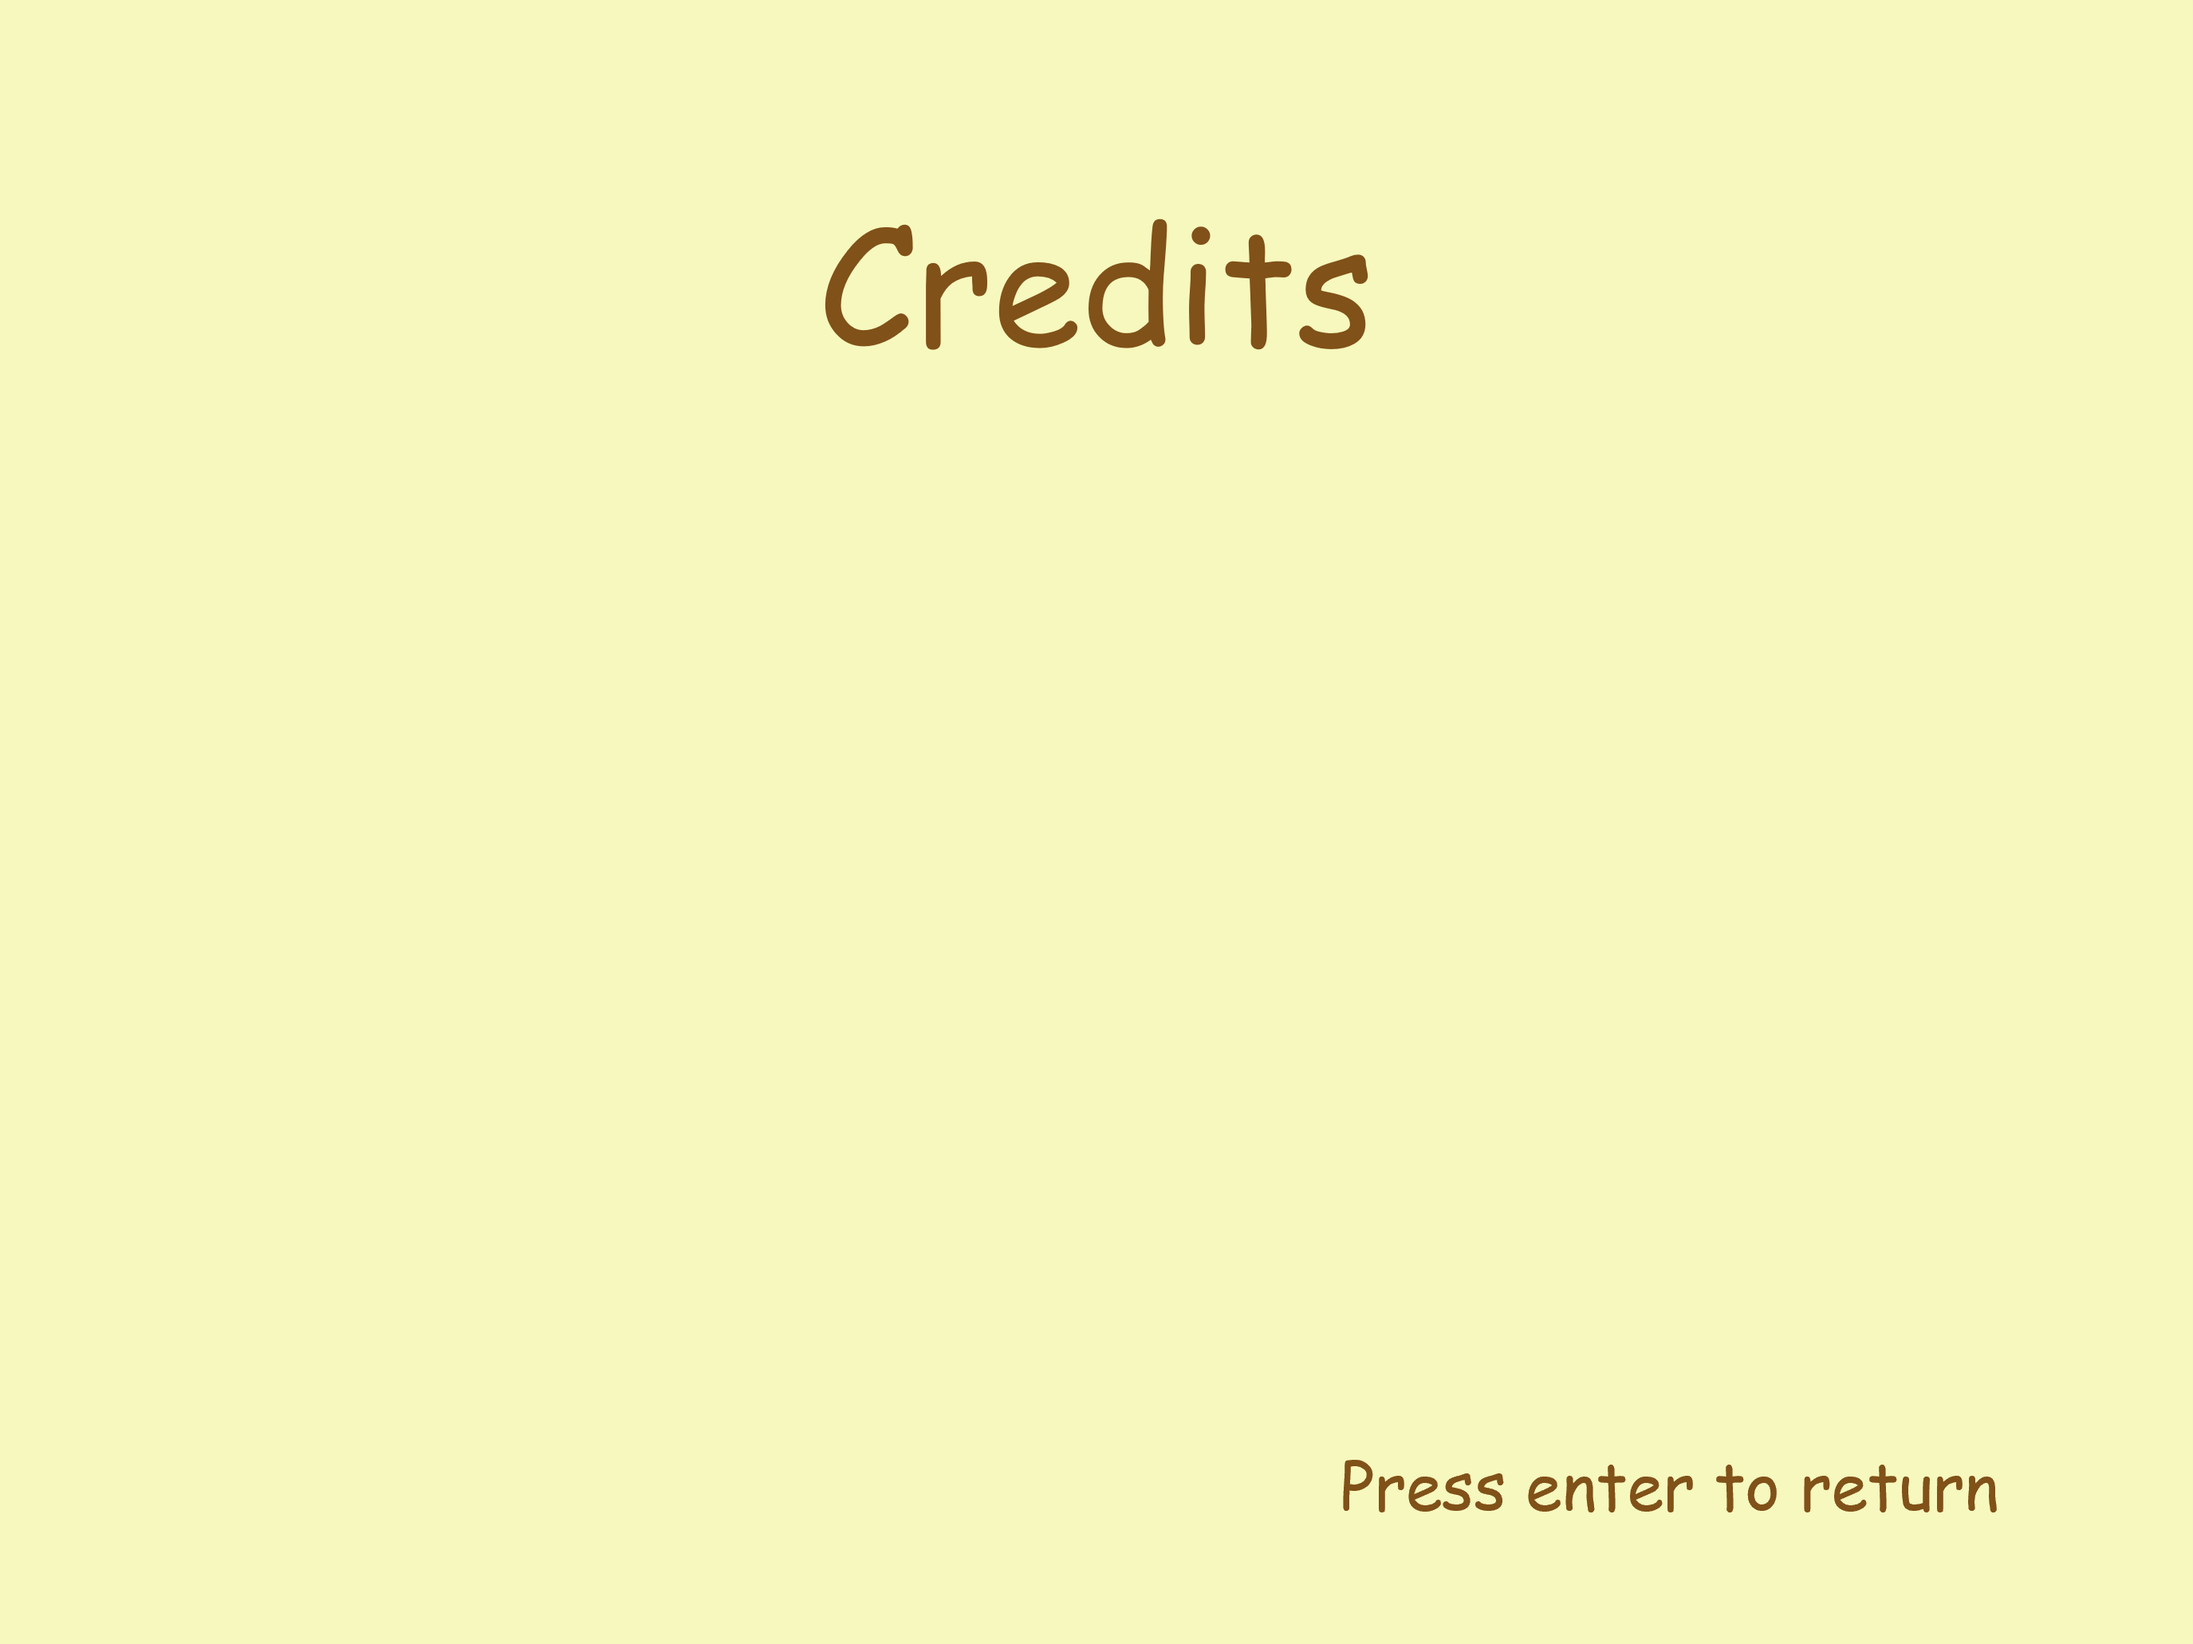
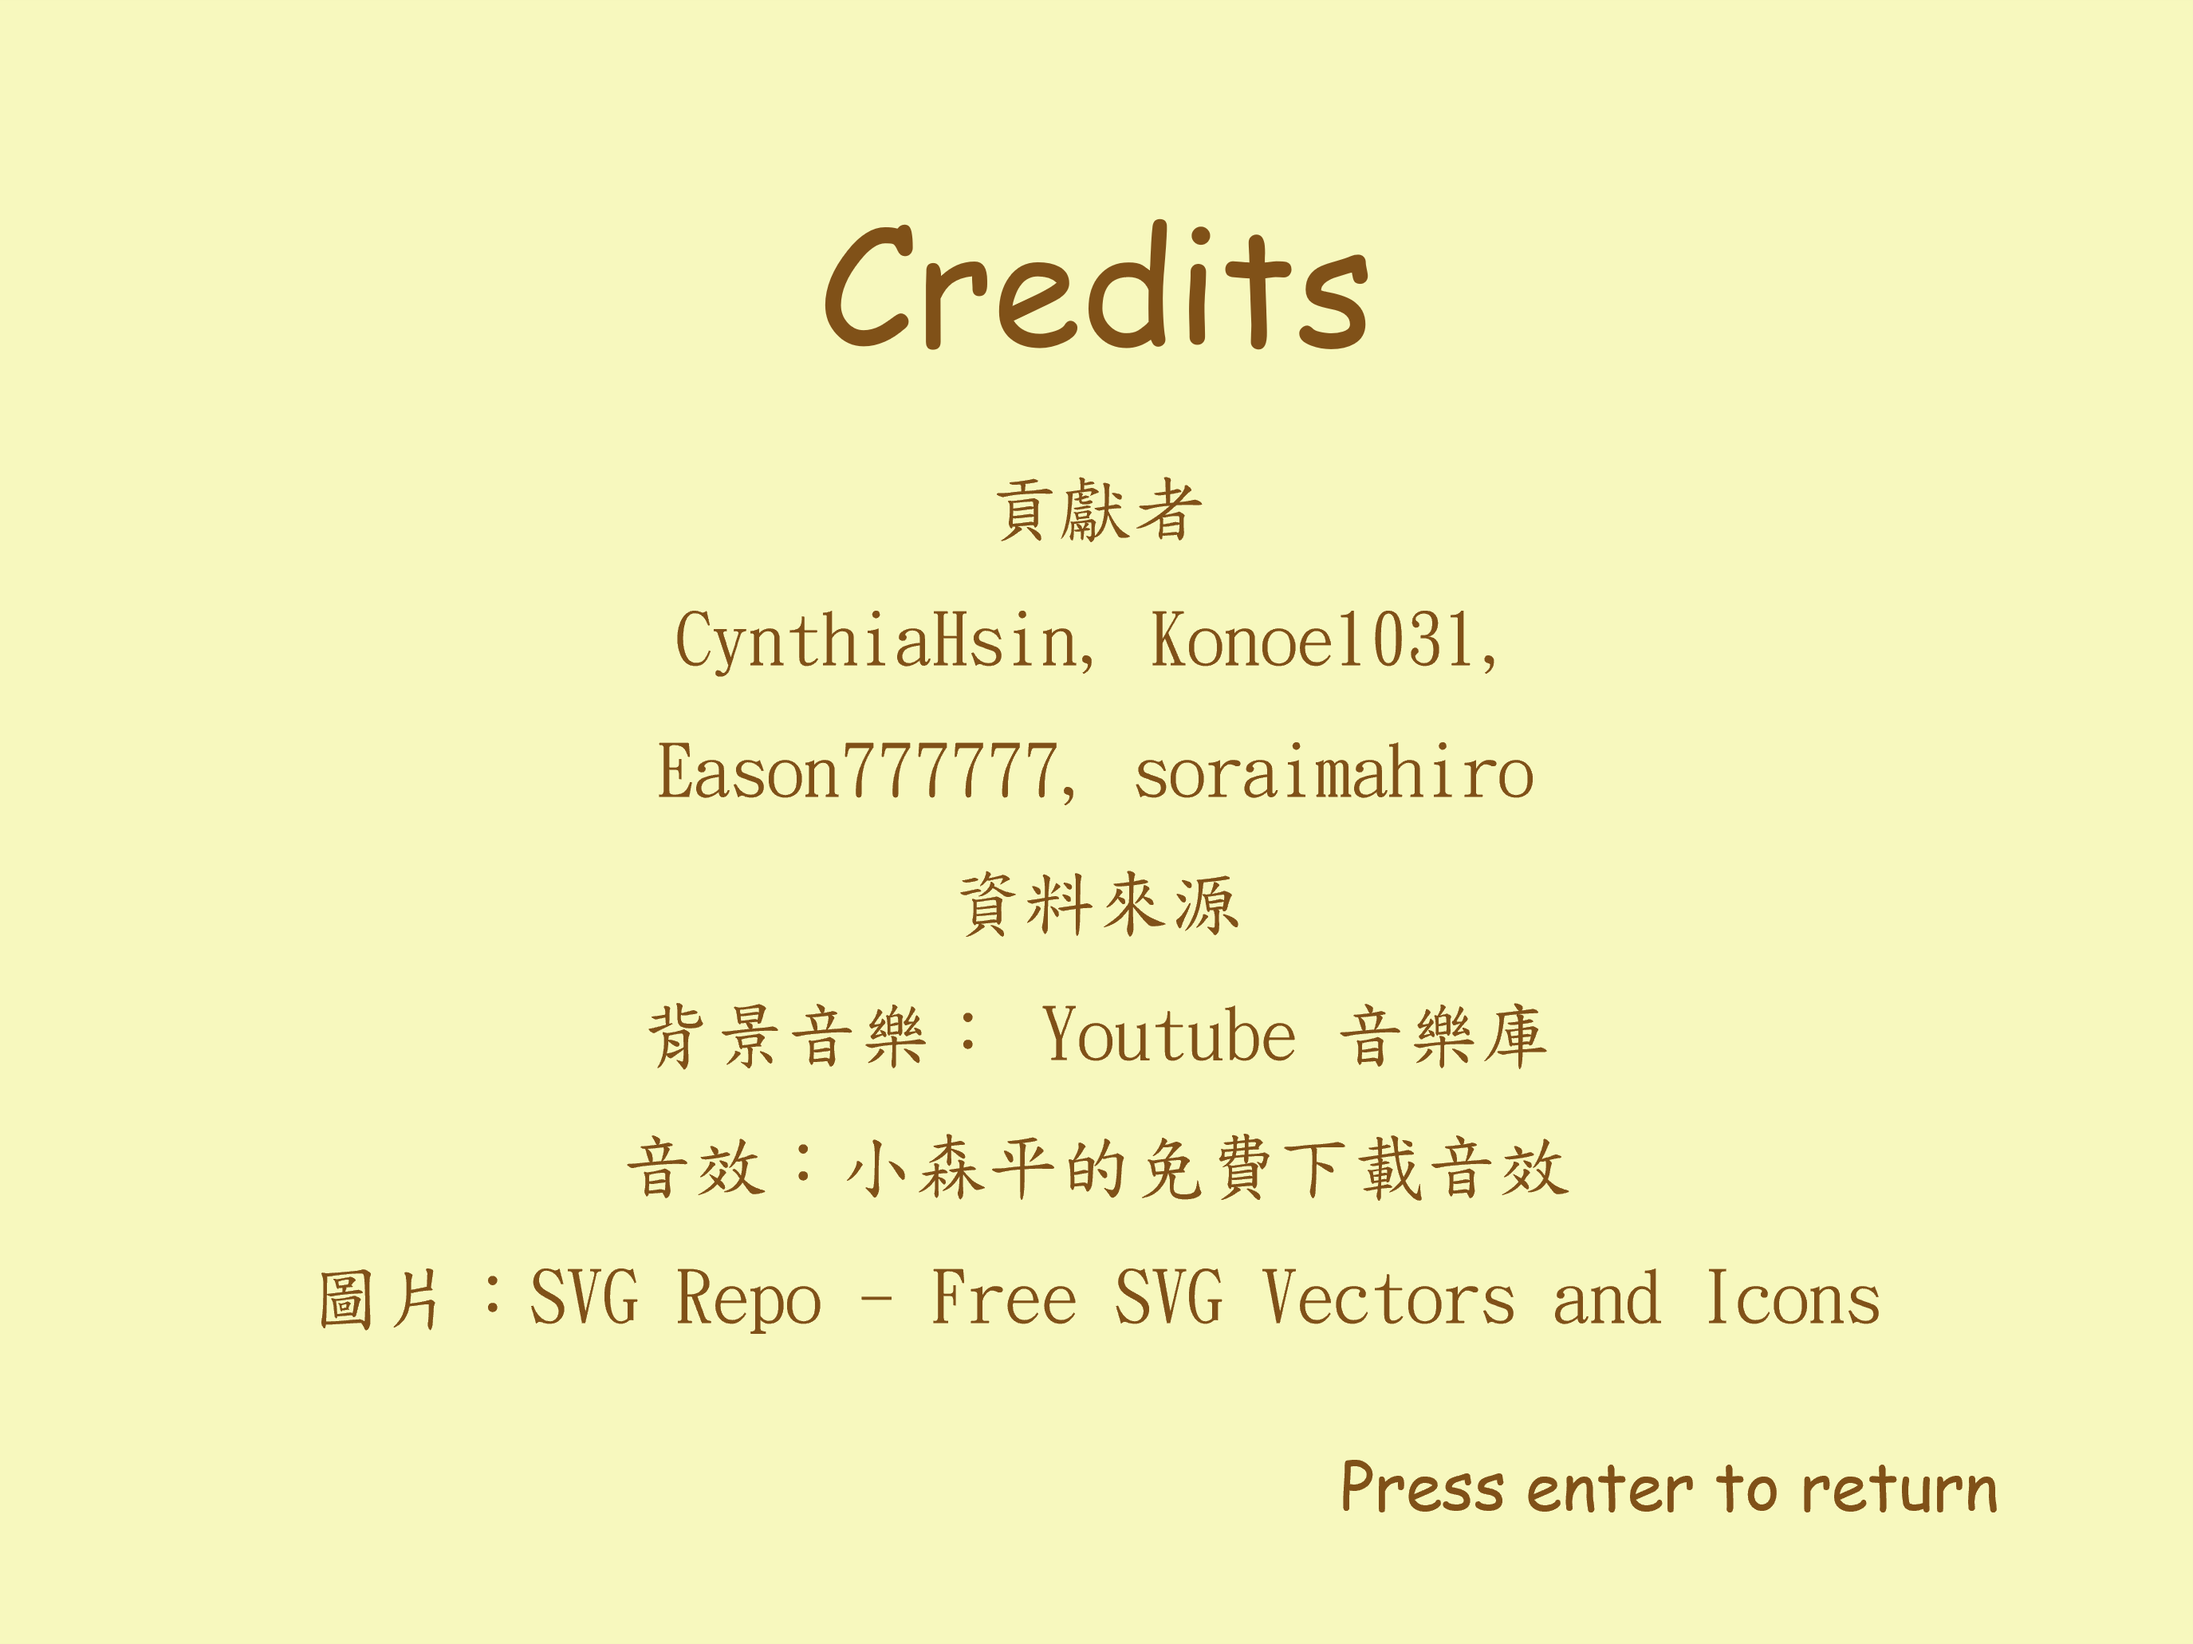
add page: credits

diff --git a/canvas.py b/canvas.py
@@ -41,10 +41,8 @@ def draw_bar(stage: Stage, screen: pygame.Surface):
 		screen.blit(text, (screen.get_width() - gold.get_width() - text.get_width(), screen.get_height() - gold.get_height() / 2 - text.get_height() / 3))
 
 def draw_title(stage: Stage, screen: pygame.Surface):
-	screen.fill((255, 255, 255))
-	font = globals.font(size = 32)
-	text = font.render("Our Game", 0, (0, 0, 255), None)
-	screen.blit(text, (screen.get_width() * 0.15, screen.get_height() * 0.25))
+	page = globals.icon("./resource/image/image_page_start.png", globals.screen_size)
+	screen.blit(page, globals.screen_pos)
 	font = globals.font(size = 24)
 	text = font.render("Start", 0, (0, 0, 0) if stage.player.pos.y != TitleOption.START.value else (255, 127, 0), None)
 	screen.blit(text, (screen.get_width() * 0.15, screen.get_height() * 0.5))
@@ -72,12 +70,8 @@ def draw_setting(stage: Stage,screen: pygame.Surface):
 	screen.blit(text, (screen.get_width() * 0.7, screen.get_height() * 0.5))
 
 def draw_credit(screen: pygame.Surface):
-	screen.fill((180, 180, 0))
-	font = globals.font(size = 12)
-	text = font.render("Credit", 0, (0, 0, 0), None)
-	screen.blit(text, (screen.get_width() * 0.15, screen.get_height() * 0.15))
-	text = font.render("Press Enter to return", 0, (0, 0, 0), None)
-	screen.blit(text, (screen.get_width() * 0.95 - text.get_width(), screen.get_height() * 0.9))
+	page = globals.icon("./resource/image/image_page_credits.png", globals.screen_size)
+	screen.blit(page, globals.screen_pos)
 
 def draw_battle(stage:Stage, screen: pygame.Surface):
 	# fill background
@@ -140,12 +134,12 @@ def draw_boss(stage: Stage, screen: pygame.Surface):
 	draw_bar(stage, screen)
 
 def draw_win(screen: pygame.Surface):
-	page = globals.icon("./resource/image/image_page_win.png", (800, 600))
-	screen.blit(page, (0, 0))
+	page = globals.icon("./resource/image/image_page_win.png", globals.screen_size)
+	screen.blit(page, globals.screen_pos)
 
 def draw_lose(screen: pygame.Surface):
-	page = globals.icon("./resource/image/image_page_lose.png", (800, 600))
-	screen.blit(page, (0, 0))
+	page = globals.icon("./resource/image/image_page_lose.png", globals.screen_size)
+	screen.blit(page, globals.screen_pos)
 
 def draw_esc_menu(stage: Stage, screen: pygame.Surface):
 	rect_width, rect_height = 400, 300

diff --git a/globals.py b/globals.py
@@ -8,6 +8,10 @@ def init():
 	enemy_killed = 0
 	global icon_size
 	icon_size = (50, 50)
+	global screen_size
+	screen_size = (800, 600)
+	global screen_pos
+	screen_pos = (0, 0)
 	global color
 	color = "blue"
 	global player_img

diff --git a/resource/resource_README.md b/resource/resource_README.md
@@ -128,6 +128,8 @@ main path: ./resource/image/
     - shop/image_skill_level_1
     - shop/image_skill_level_2
     - shop/image_skill_level_3
+    - shop/image_exit_0
+    - shop/image_exit_1
 - 其他怪物
     - monsters/image_monster2_mob_move_right
     - monsters/image_monster2_mob_move_left
